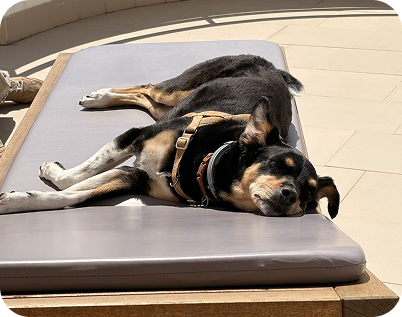
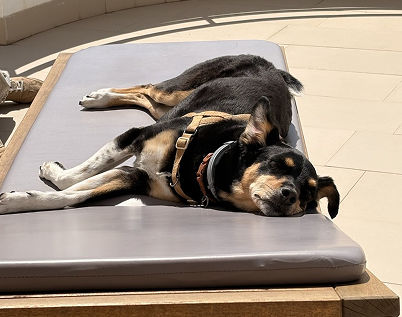
fine tune 9

diff --git a/src/styles/layout.css b/src/styles/layout.css
@@ -405,6 +405,7 @@ canvas {
   border-radius: var(--radius-section-top) var(--radius-section-top) 0 0;
   min-height: auto;
   backface-visibility: hidden;
+  overflow-x: clip;
 }
 
 .section__inner--gifts {
@@ -481,9 +482,7 @@ canvas {
     background-color: var(--color-bg-primary);
     border-top: 1px solid var(--color-bg-secondary);
     padding: var(--mobile-nav-padding);
-    padding-bottom: calc(
-      var(--mobile-nav-padding) + var(--bottom-safe)
-    );
+    padding-bottom: calc(var(--mobile-nav-padding) + var(--bottom-safe));
     justify-content: center;
   }
 
@@ -495,6 +494,10 @@ canvas {
     font-size: var(--mobile-nav-item-font-size);
     padding: var(--mobile-nav-item-padding-y) var(--mobile-nav-item-padding-x);
     border-radius: var(--mobile-nav-item-border-radius);
+  }
+
+  .section__inner--gifts {
+    padding-top: 64px;
   }
 
   .section__inner--schedule {
@@ -556,6 +559,8 @@ canvas {
 
   .gifts__image-wrapper {
     display: flex;
+    justify-content: center;
+    width: 100%;
   }
 
   .gifts__content {
@@ -581,7 +586,7 @@ canvas {
     margin-top: 80px;
     margin-bottom: 30px;
   }
-  
+
   .details__row--top {
     gap: 150px;
     margin-bottom: 70px;
@@ -733,4 +738,35 @@ canvas {
   display: block;
   width: 100%;
   border: 0;
+}
+
+@media (max-width: 690px) {
+  .section--gifts {
+    overflow-x: clip;
+  }
+
+  .gifts__image-wrapper {
+    width: 100vw;
+    margin-left: calc(-50vw + 50%);
+  }
+
+  .gifts__image {
+    width: 100%;
+    height: auto;
+    border-radius: 0;
+  }
+
+  .section__inner--gifts,
+  .section__inner--details {
+    padding-left: 24px;
+    padding-right: 24px;
+  }
+
+  .schedule-item__icon {
+    margin-bottom: var(--space-md);
+  }
+
+  .schedule-item {
+    gap: var(--space-xs);
+  }
 }

diff --git a/src/modules/nav/main.ts b/src/modules/nav/main.ts
@@ -3,7 +3,9 @@ const DESKTOP_NAV_LINK_SELECTOR = '.site-nav--top .site-nav__link';
 const MOBILE_NAV_LINK_SELECTOR = '.site-nav--bottom .site-nav__link';
 const ACTIVE_LINK_CLASS = 'site-nav__link--active';
 
-function updateActiveLink(sectionId: string): void {
+let suppressObserver = false;
+
+function setActiveLink(sectionId: string): void {
   const selectors = [DESKTOP_NAV_LINK_SELECTOR, MOBILE_NAV_LINK_SELECTOR];
   selectors.forEach((selector) => {
     const links = document.querySelectorAll<HTMLAnchorElement>(selector);
@@ -49,8 +51,8 @@ function setupActiveTracking(): void {
         }
       }
 
-      if (activeSection) {
-        updateActiveLink(activeSection.id);
+      if (activeSection && !suppressObserver) {
+        setActiveLink(activeSection.id);
       }
     },
     { rootMargin, threshold: thresholds },
@@ -62,6 +64,30 @@ function setupActiveTracking(): void {
   });
 }
 
+function forceActiveLink(sectionId: string): void {
+  suppressObserver = true;
+  setActiveLink(sectionId);
+  setTimeout(() => {
+    suppressObserver = false;
+  }, 1000);
+}
+
+function setupClickTracking(): void {
+  const selectors = [DESKTOP_NAV_LINK_SELECTOR, MOBILE_NAV_LINK_SELECTOR];
+  selectors.forEach((selector) => {
+    const links = document.querySelectorAll<HTMLAnchorElement>(selector);
+    links.forEach((link) => {
+      link.addEventListener('click', () => {
+        const sectionId = link.getAttribute('href')?.replace('#', '');
+        if (sectionId) {
+          forceActiveLink(sectionId);
+        }
+      });
+    });
+  });
+}
+
 export function setupNavigation(): void {
   setupActiveTracking();
+  setupClickTracking();
 }

diff --git a/index.html b/index.html
@@ -2,9 +2,13 @@
 <html lang="en">
   <head>
     <meta charset="UTF-8" />
-    <!-- <link rel="icon" type="image/svg+xml" href="/favicon.svg" /> -->
+    <link rel="icon" type="image/svg+xml" sizes="16x16" href="/images/icon16.svg" />
+    <link rel="icon" type="image/svg+xml" sizes="32x32" href="/images/icon32.svg" />
     <meta name="viewport" content="width=device-width, initial-scale=1.0, viewport-fit=cover" />
-    <title>casamento</title>
+    <title>Lau & Leo</title>
+    <meta property="og:title" content="Lau & Leo" />
+    <meta property="og:image" content="/images/babica.png" />
+    <meta property="og:type" content="website" />
     <link rel="preconnect" href="https://fonts.googleapis.com" />
     <link rel="preconnect" href="https://fonts.gstatic.com" crossorigin />
     <link

diff --git a/src/styles/tokens.css b/src/styles/tokens.css
@@ -53,7 +53,7 @@
   --font-size-body: 16px;
   --font-size-nav-item: 16px;
   --font-size-section2-heading: 20px; /* section 2 h4 */
-  --font-size-section2-span: 20px;
+  --font-size-section2-span: 16px;
 
   --font-weight-regular: 400;
   --font-weight-medium: 500;
